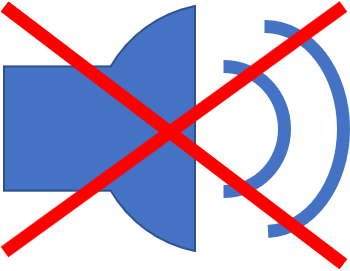
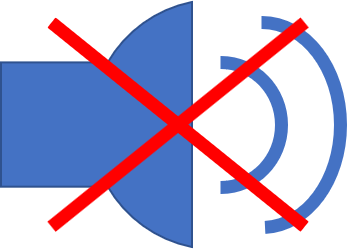
fixed image and used show_image() in GameField.py

diff --git a/GameField.py b/GameField.py
@@ -53,34 +53,34 @@ class GameField:
         self.background_image = pygame.transform.smoothscale(self.background_image, (self.screen_width, self.screen_height))
         self.ingame_rules_button = pygame.transform.smoothscale(self.ingame_rules_button, (int(self.screen_size_multiplier * 1.5), int(self.screen_size_multiplier)))
         self.ingame_help_button = pygame.transform.smoothscale(self.ingame_help_button, (int(self.screen_size_multiplier * 1.5), int(self.screen_size_multiplier)))
-        self.ingame_sound_on_button = pygame.transform.smoothscale(self.ingame_sound_on_button, (int(self.screen_size_multiplier * 1), int(self.screen_size_multiplier * 0.9)))
+        self.ingame_sound_on_button = pygame.transform.smoothscale(self.ingame_sound_on_button, (int(self.screen_size_multiplier * 1), int(self.screen_size_multiplier * 1)))
         self.ingame_sound_off_button = pygame.transform.smoothscale(self.ingame_sound_off_button, (int(self.screen_size_multiplier * 1), int(self.screen_size_multiplier * 1)))
 
         self.ingame_rules_button_rect = self.ingame_rules_button.get_rect(topleft=(int(self.screen_size_multiplier*2.5), int(self.screen_size_multiplier*0.1)))
         self.ingame_help_button_rect = self.ingame_help_button.get_rect(topleft=(int(self.screen_size_multiplier*7), int(self.screen_size_multiplier*0.1)))
-        self.ingame_sound_button_rect = self.ingame_sound_on_button.get_rect(topleft=(int(self.screen_size_multiplier * 2.5), int(self.screen_size_multiplier * 10)))
+        self.ingame_sound_button_rect = self.ingame_sound_on_button.get_rect(topleft=(int(self.screen_size_multiplier * 2.5), int(self.screen_size_multiplier * 9.75)))
 
         self.screen = self.screen_class.screen
 
     def show_screen(self):
         self.screen.blit(self.background_image, (0, 0))
-        self.screen.blit(self.ingame_rules_button, (int(self.screen_size_multiplier*2.5), int(self.screen_size_multiplier*0.1)))
-        self.screen.blit(self.ingame_help_button, (int(self.screen_size_multiplier*7), int(self.screen_size_multiplier*0.1)))
+        self.show_image(self.ingame_rules_button, 2.5, 0.1)
+        self.show_image(self.ingame_help_button, 7, 0.1)
         # blit the button accordingly if music is (not) playing
         if pygame.mixer.music.get_busy():
-            self.screen.blit(self.ingame_sound_on_button, (int(self.screen_size_multiplier*2.5), int(self.screen_size_multiplier*10.01)))
+            self.show_image(self.ingame_sound_on_button, 2.5, 9.75)
         else:
-            self.screen.blit(self.ingame_sound_off_button, (int(self.screen_size_multiplier*2.5), int(self.screen_size_multiplier*10)))
+            self.show_image(self.ingame_sound_off_button, 2.5, 9.75)
 
         pygame.display.update()
 
     # Koordinaten entsprechen den Feldern einer 11*11 Matrix
     # die Funktion funktioniert auch mit einem Surface!
-    def show_image(self, image: pygame.image, x_coordinate: int, y_coordinate: int):
+    def show_image(self, image: pygame.image, x_coordinate: float, y_coordinate: float):
         if x_coordinate != 0:
-            x_coordinate = self.screen_size_multiplier * x_coordinate
+            x_coordinate = int(self.screen_size_multiplier * x_coordinate)
         if y_coordinate != 0:
-            y_coordinate = self.screen_size_multiplier * y_coordinate
+            y_coordinate = int(self.screen_size_multiplier * y_coordinate)
 
         self.screen.blit(image, (x_coordinate, y_coordinate))
 
